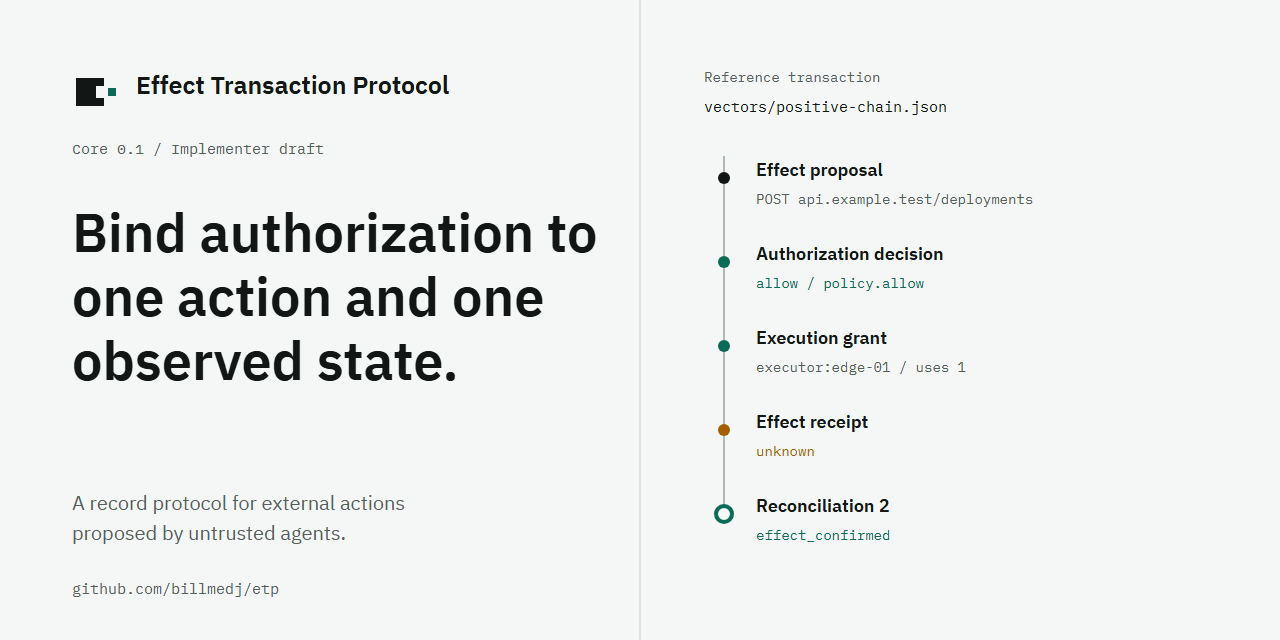
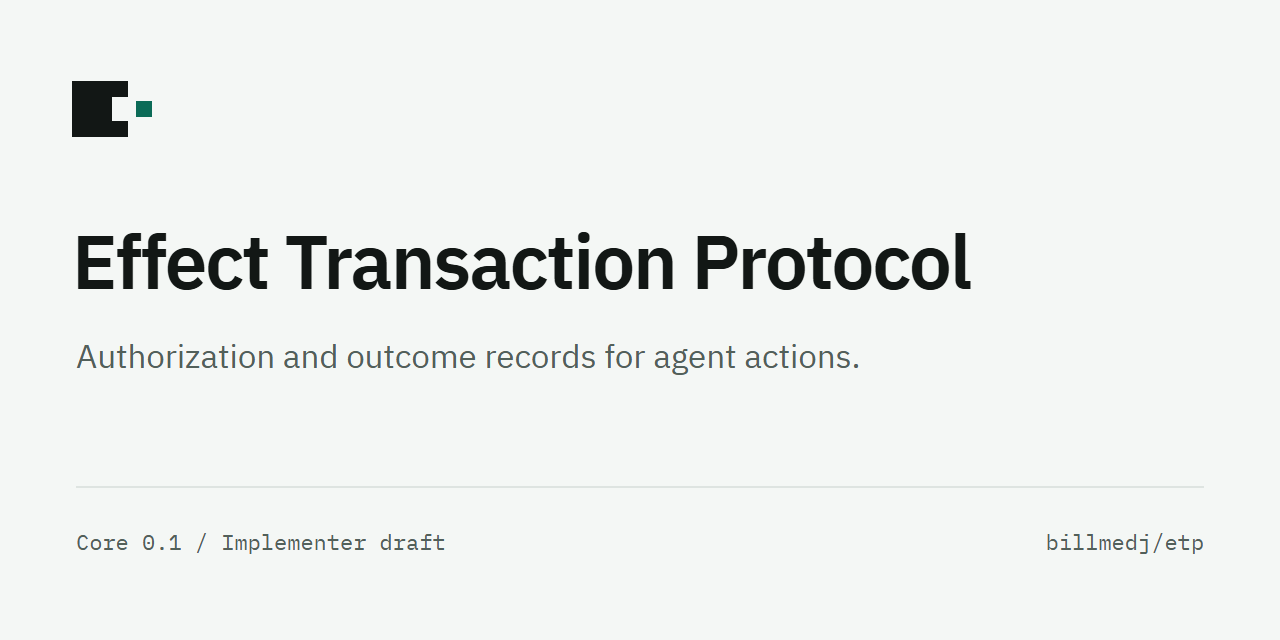
Simplify the overview and illustrate unknown outcomes

diff --git a/README.md b/README.md
@@ -1,24 +1,52 @@
-<img src="./assets/etp-mark.svg" alt="ETP mark" width="48" height="48">
-
-# Effect Transaction Protocol
+# <img src="./assets/etp-mark.svg" alt="" width="44" height="44"> Effect Transaction Protocol
 
 [![CI](https://github.com/billmedj/etp/actions/workflows/ci.yml/badge.svg)](https://github.com/billmedj/etp/actions/workflows/ci.yml)
 [![License: Apache-2.0](https://img.shields.io/badge/license-Apache--2.0-blue.svg)](./LICENSE)
 
-**Protocol:** Core 0.1 implementer draft; **Reference software:**
-0.1.0-alpha.1
+**Protocol:** Core 0.1 implementer draft; **Reference software:** 0.1.0-alpha.1
 
-Effect Transaction Protocol (ETP) defines an append-only record chain and
-executor rules for externally visible actions proposed by untrusted agents.
-An effect is one attempt to change or invoke an external target, such as an
-HTTP request, Kubernetes patch, or file write.
+Effect Transaction Protocol (ETP) defines how an executor checks permission for
+an external action proposed by an untrusted agent, then records what happened.
+For example, an HTTP request needs authorization for its specific target and
+arguments. Permission to use an HTTP tool alone is not enough.
 
-An agent can propose an effect. An evaluator decides whether to allow the exact
-proposal. A conforming executor validates the complete record chain and claims
-a short-lived, single-use grant before dispatch. The executor then records the
-observed outcome. If dispatch status is unclear, the outcome is `unknown` and
-the grant remains consumed. Reconciliation adds evidence for the next operator
-decision. It never restores the grant.
+This repository provides Rust and TypeScript verifiers, a Rust executor with a
+SQLite lifecycle store, and test cases. Start by checking an example record chain.
+
+## Try the verifier
+
+Requires Node.js 22.6 or later. The TypeScript package has no runtime dependencies.
+From a repository checkout:
+
+```console
+cd typescript
+npm test
+npm run verify -- ../vectors/positive-chain.json
+```
+
+The verifier checks record structure and bindings. It does not authorize or
+execute the proposed action.
+
+## How an action proceeds
+
+A task authority commits the task independently of model output. The agent's
+effect proposal binds the target, arguments, expected effect, pre-state, and
+resource claim. An evaluator returns `allow`, `deny`, or `review`.
+
+Only `allow` can produce an execution grant. Each proposal and decision can
+produce at most one grant, bound to one executor audience. Before dispatch,
+the executor validates the complete chain, checks current state, and atomically
+consumes the short-lived grant to create one attempt.
+
+The effect receipt records `not_dispatched`, `succeeded`, `failed`, or `unknown`
+from observed evidence. An `unknown` outcome prevents blind retry. Reconciliation
+appends evidence; it never restores the consumed grant or rewrites history.
+Single-use claim does not prove that an external target applies an effect exactly once.
+
+![An approved HTTP request loses its response. The grant stays consumed while the executor records unknown and reconciliation adds evidence.](./assets/transaction-flow.svg)
+
+<details>
+<summary>Record types</summary>
 
 ```text
 TaskCommitment
@@ -29,93 +57,21 @@ TaskCommitment
       -> ReconciliationRecord?
 ```
 
-Agent frameworks, policy languages, credential systems, transports, and
-rollback engines remain outside the protocol. ETP defines a contract between
-these components. Model output does not create execution authority.
+See the [protocol specification](./SPEC.md) for fields and required checks.
 
-## Scope and reason to be
+</details>
 
-Agent systems often authorize a broad tool or role, then let a model choose the
-final target and arguments. This leaves a gap between policy approval and the
-effect that reaches an external system.
+## Run the other checks
 
-ETP specifies a narrower boundary. It binds a grant to one typed proposal, one
-observed pre-state, one executor audience, and one claim. It preserves an
-`unknown` outcome when a crash or network failure makes the external result
-unclear.
-
-## Core properties
-
-A conforming deployment preserves these rules for each protected effect:
-
-1. A task authority commits the task independently of model output.
-2. The proposal binds the target, arguments, expected effect, pre-state, and
-   resource claim.
-3. An evaluator returns `allow`, `deny`, or `review` for that proposal.
-4. Only `allow` can produce a grant.
-5. One proposal and one decision can each produce at most one grant.
-6. The executor validates the complete chain and current state.
-7. The executor atomically consumes the grant before dispatch.
-8. The receipt records `not_dispatched`, `succeeded`, `failed`, or `unknown`
-   from evidence at the declared observation boundary.
-9. An `unknown` outcome prevents blind retry.
-10. Reconciliation appends evidence. It does not rewrite history or restore a
-    consumed grant.
-
-## Repository layout
-
-- [`SPEC.md`](./SPEC.md): protocol records, lifecycle, invariants, and
-  conformance requirements.
-- [`THREAT_MODEL.md`](./THREAT_MODEL.md): adversaries, trust assumptions,
-  security goals, and residual risks.
-- [`schemas/`](./schemas/): strict JSON Schema 2020-12 definitions.
-- [`profiles/`](./profiles/): Core inventory, authority profile, and reference
-  effect profiles.
-- [`vectors/`](./vectors/): positive, negative, canonicalization, authority,
-  and profile test vectors.
-- [`conformance/`](./conformance/): 77 deterministic Core lifecycle cases.
-- [`crates/`](./crates/): Rust core, authority, SQLite, executor, and CLI
-  crates.
-- [`typescript/`](./typescript/): a zero-dependency TypeScript structural
-  verifier and CLI.
-- [`formal/lean/`](./formal/lean/): 23 Lean theorem declarations for selected
-  lifecycle safety invariants.
-- [`formal/tla/`](./formal/tla/): one bounded TLA+ lifecycle model and its TLC
-  configuration.
-- [`IMPLEMENTATION_STATUS.md`](./IMPLEMENTATION_STATUS.md): implemented
-  components, evidence, and limits.
-- [`RELATED_WORK.md`](./RELATED_WORK.md): relationship to adjacent standards
-  and systems.
-- [`BENCHMARKS.md`](./BENCHMARKS.md): verifier benchmark method and limits.
-- [`LANGUAGE.md`](./LANGUAGE.md): protocol terminology and public claim rules.
-- [`BRAND.md`](./BRAND.md): visual identity and public writing guidance.
-
-## Quick start
-
-### TypeScript verifier
-
-Requires Node.js 22.6 or later.
-
-```console
-cd typescript
-npm test
-npm run verify -- ../vectors/positive-chain.json
-```
-
-The TypeScript package has no runtime dependencies.
-
-### Rust implementation
-
-Use the Rust toolchain pinned by `rust-toolchain.toml`.
+Run each section from the repository root. Use the Rust toolchain pinned by
+`rust-toolchain.toml`:
 
 ```console
 cargo test --workspace --locked
 cargo run --locked -p effect-transaction-cli -- verify vectors/positive-chain.json
 ```
 
-### Conformance suite
-
-Run from the repository root:
+The Core conformance suite contains 77 deterministic lifecycle cases:
 
 ```console
 node --experimental-strip-types conformance/runner.ts
@@ -127,7 +83,7 @@ Write a machine-readable report with:
 node --experimental-strip-types conformance/runner.ts --report effect-transaction-conformance-report.json
 ```
 
-### Reference profiles
+The reference-profile suite checks document schemas and 50 profile vectors:
 
 ```console
 cd profiles
@@ -135,15 +91,10 @@ npm ci --ignore-scripts
 npm test
 ```
 
-The profile suite validates the registered document schemas and 50 profile
-vectors.
-
 ### Evidence checks
 
-The repository pins Lean, TLA+ tools, Rust, and dependency lockfiles. The CI
-evidence environment uses Node.js 24.10.0, Python 3.13, and Java 21. The local
-JavaScript tools support Node.js 22.6 or later. Run these commands from the
-repository root:
+The repository pins Lean, TLA+ tools, Rust, and dependency lockfiles. CI uses
+Node.js 24.10.0, Python 3.13, and Java 21. From the repository root:
 
 ```console
 python tools/check-language.py
@@ -159,55 +110,35 @@ python tools/check-evidence.py
 python tools/source-manifest.py --git git
 ```
 
-`tools/run-tla.py` performs the declared finite search and rewrites the
-deterministic result record. The checked-in counters do not replace that run.
+`tools/run-tla.py` performs the declared finite search and rewrites its result
+record. Checked-in counters do not replace that run.
 
-## Integration model
+## Integrate ETP
 
-```text
-agent or workflow
-        |
-        v
-ETP authority and claim boundary
-        |
-        v
-conforming effect adapter
-        |
-        v
-filesystem, HTTP service, Git host, cloud API, or Kubernetes API
-```
+An [effect profile](./profiles/) defines target identity, arguments, pre-state
+checks, dispatch, observation, and reconciliation. Profiles can restrict actions;
+they cannot expand task authority or weaken single-use and unknown-outcome rules.
+Agent frameworks, policy languages, credentials, transports, and rollback engines
+remain deployment choices.
 
-An effect profile defines target identity, typed arguments, pre-state checks,
-dispatch, observation, and reconciliation for one effect class. A profile can
-add restrictions. It cannot expand task authority or weaken single-use and
-unknown-outcome rules.
+A deployment needs complete mediation, durable atomic storage, protected keys,
+trusted configuration and time, validated profiles, target-specific tests, and
+external review. Core 0.1 is not an adopted standard or a production certification.
+State checks before claim still leave a race before dispatch; mutating targets
+need their own conditions or fencing.
+Repository evidence does not establish prompt-injection immunity, external truth,
+ecosystem interoperability, or a model-to-code refinement proof.
 
-## Security and maturity
-
-ETP 0.1 is an implementer draft. It is not an adopted standard, a production
-certification, or an audited security product.
-
-The repository provides Rust and TypeScript structural verifiers, a Rust
-lifecycle store and executor, shared test vectors, 77 conformance cases, 23
-Lean theorem declarations, and one bounded TLA+ model. These artifacts do not
-prove implementation refinement, ecosystem interoperability, prompt-injection
-immunity, or safe production deployment.
-[`evidence-summary.json`](./evidence-summary.json) records the exact public
-counts and source-set hashes used for these statements.
-
-A deployment also needs complete mediation, durable atomic storage, trusted
-configuration, protected keys, trusted time, validated effect profiles,
-target-specific tests, and external review. See
-[`THREAT_MODEL.md`](./THREAT_MODEL.md) and
-[`IMPLEMENTATION_STATUS.md`](./IMPLEMENTATION_STATUS.md).
+- [Implementation status](./IMPLEMENTATION_STATUS.md): components, evidence, and limits.
+- [Threat model](./THREAT_MODEL.md): trust assumptions and residual risks.
+- [Schemas](./schemas/), [vectors](./vectors/), and [conformance cases](./conformance/): record formats and executable checks.
+- [Rust](./crates/) and [TypeScript](./typescript/): reference code.
+- [Lean](./formal/lean/), [TLA+](./formal/tla/), and [evidence summary](./evidence-summary.json): formal artifacts, bounds, counts, and source hashes.
+- [Related work](./RELATED_WORK.md) and [benchmarks](./BENCHMARKS.md): comparisons and measurement limits.
 
 ## Project policy
 
-- License: [Apache License 2.0](./LICENSE)
-- Identity and writing: [BRAND.md](./BRAND.md) and
-  [LANGUAGE.md](./LANGUAGE.md)
-- Security reports: [SECURITY.md](./SECURITY.md)
-- Contributions: [CONTRIBUTING.md](./CONTRIBUTING.md)
-- Governance: [GOVERNANCE.md](./GOVERNANCE.md)
-- Versioning: [VERSIONING.md](./VERSIONING.md)
-- Support: [SUPPORT.md](./SUPPORT.md)
+[Apache-2.0 license](./LICENSE) | [Contributing](./CONTRIBUTING.md) |
+[Security reports](./SECURITY.md) | [Governance](./GOVERNANCE.md) |
+[Versioning](./VERSIONING.md) | [Support](./SUPPORT.md) |
+[Identity](./BRAND.md) | [Terminology](./LANGUAGE.md)

diff --git a/BRAND.md b/BRAND.md
@@ -83,8 +83,10 @@ Interface and website copy must follow these rules:
 
 The preferred short description is:
 
-> ETP defines records and executor rules for external actions proposed by
-> untrusted agents, from authorization through outcome reconciliation.
+> Authorization and outcome records for agent actions.
+
+Use [the lost-response example](assets/transaction-flow.svg) to explain why
+a consumed grant stays consumed. Keep full record definitions in the specification.
 
 ## Asset sources
 
